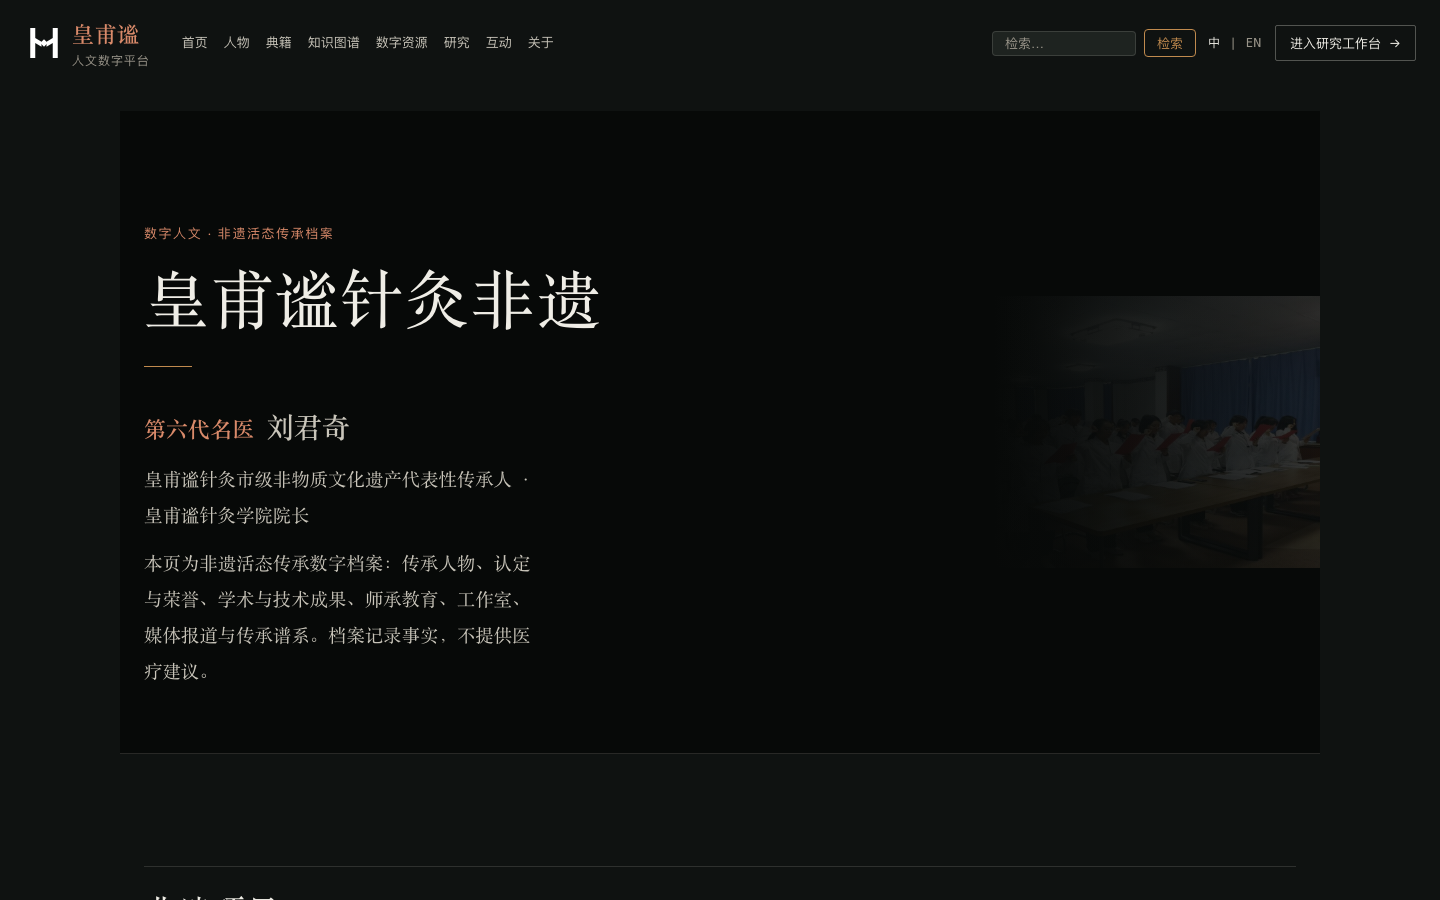
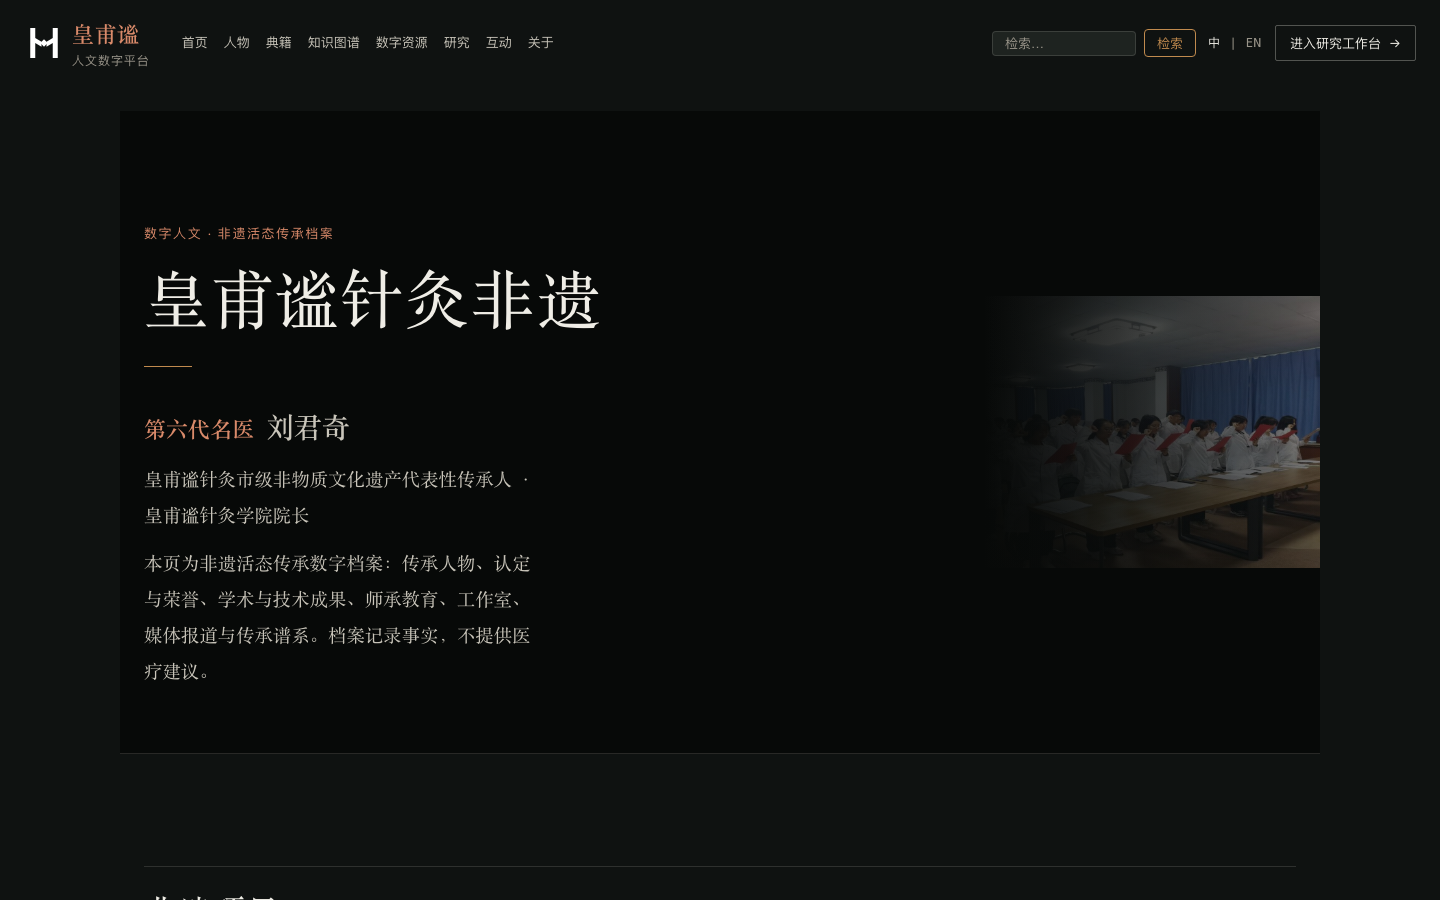
fix(portal): knowledge page read the API envelope, not the projection
/knowledge reported "共 0 条 · 知识实体尚未发布" while 30 terms were published.
The view called the raw GET and read `terms` off the response, but the public
endpoint wraps its payload in {success, data}, so the field was always
undefined and the honest-empty state rendered over real data.

Added fetchPublicCTerms alongside the other typed public fetchers, which
unwrap the envelope, and a spec for the page: it asserts the terms render
grouped by type, that the stated total is the real one, and that an
unreachable projection still degrades to the failure message rather than to
"nothing published". The old code fails that spec.

Two smaller corrections found while reviewing the pages:

  - the media library labelled every non-video asset "打开 PDF", including the
    .docx and .doc files that browsers only download. The label now follows the
    real format.
  - the edition-lineage diagram is a light scan on a dark page. It is now
    presented as a lit panel — framed, on a raised surface — rather than dimmed.
    Dimming it would have cost legibility, and ui08-jiayi.spec asserts the
    diagram is not filtered in dark mode. The 活态传承 hero image is a
    photograph rather than a scan, so its wash was lightened; at the scan
    setting it was invisible.

Verified: vue-tsc clean · eslint 0 errors · vitest 279/279 · playwright 89/89.

Changed region(s): [[0.75, 0.3111, 0.9375, 0.56], [0.875, 0.5911, 0.9375, 0.6533]]

diff --git a/apps/frontend/src/__tests__/knowledge_terms.spec.ts b/apps/frontend/src/__tests__/knowledge_terms.spec.ts
@@ -1,0 +1,64 @@
+/**
+ * /knowledge — the term list must come from the public projection, and must
+ * not silently render as empty when the API answer is the real envelope.
+ *
+ * This is the check that was missing: the page called the raw GET and read
+ * `terms` off the envelope instead of off `data`, so it reported "0 条 /
+ * 尚未发布" while 30 terms were published.
+ */
+import { describe, expect, it, vi, beforeEach, afterEach } from 'vitest'
+import { flushPromises, mount } from '@vue/test-utils'
+import KnowledgeGraphView from '../views/knowledge/KnowledgeGraphView.vue'
+
+const TERMS = [
+  { entity_id: 'K-ACUPOINT-三阴交', term_type: 'acupoint', term_name: '三阴交', publication_status: 'PUBLISHED' },
+  { entity_id: 'K-MERIDIAN-任脉', term_type: 'meridian', term_name: '任脉', publication_status: 'PUBLISHED' },
+  { entity_id: 'K-DISEASE-中风', term_type: 'disease_symptom', term_name: '中风', publication_status: 'PUBLISHED' },
+  { entity_id: 'K-TREATMENT-刺络', term_type: 'technique', term_name: '刺络', publication_status: 'PUBLISHED' },
+]
+
+const envelope = (data: unknown) => ({
+  ok: true,
+  status: 200,
+  json: async () => ({ success: true, timestamp: 't', message: 'ok', data }),
+})
+
+beforeEach(() => {
+  vi.stubGlobal(
+    'fetch',
+    vi.fn().mockResolvedValue(envelope({ terms: TERMS, total: TERMS.length })),
+  )
+})
+afterEach(() => vi.unstubAllGlobals())
+
+describe('knowledge graph page', () => {
+  it('renders the published terms grouped by type', async () => {
+    const wrapper = mount(KnowledgeGraphView)
+    await flushPromises()
+    const text = wrapper.text()
+    expect(text).toContain('三阴交')
+    expect(text).toContain('任脉')
+    expect(text).toContain('中风')
+    expect(text).toContain('刺络')
+    // 分组标题是中文名，不是 type 原文
+    expect(text).toContain('经穴')
+    expect(text).toContain('经脉')
+    expect(text).toContain('病症')
+    expect(text).toContain('治法')
+    expect(wrapper.text()).not.toContain('知识实体尚未发布')
+  })
+
+  it('states the real total, not zero', async () => {
+    const wrapper = mount(KnowledgeGraphView)
+    await flushPromises()
+    expect(wrapper.find('#kg-terms-title').exists()).toBe(true)
+    expect(wrapper.text()).toContain(`${TERMS.length}`)
+  })
+
+  it('degrades honestly when the projection is unavailable', async () => {
+    vi.stubGlobal('fetch', vi.fn().mockRejectedValue(new Error('offline')))
+    const wrapper = mount(KnowledgeGraphView)
+    await flushPromises()
+    expect(wrapper.text()).toContain('暂时无法读取知识实体')
+  })
+})

diff --git a/apps/frontend/src/styles/portal-column.css b/apps/frontend/src/styles/portal-column.css
@@ -151,8 +151,9 @@
 }
 
 .public-shell[data-surface='exhibition'] .heritage-hero {
+  /* 实拍本身偏暗，压得比扫描件轻，否则整张图看不见。 */
   background-image:
-    linear-gradient(to right, var(--wl-deep) 32%, rgba(7, 9, 8, 0.9) 60%, rgba(7, 9, 8, 0.74) 100%),
+    linear-gradient(to right, var(--wl-deep) 30%, rgba(7, 9, 8, 0.78) 58%, rgba(7, 9, 8, 0.34) 100%),
     url('/assets/heritage/heritage-baishi-ceremony.jpg');
 }
 
@@ -198,4 +199,22 @@
   background-image:
     linear-gradient(to right, var(--wl-deep) 32%, rgba(7, 9, 8, 0.9) 60%, rgba(7, 9, 8, 0.74) 100%),
     url('/assets/jiayi/edition-lineage.png');
+}
+
+/* ---- 浅底示意图在暗场里当「打光展板」处理 ----
+   版本脉络图是浅底扫描件，直接铺满整幅会在暗场里亮成一块白。
+   给它一个展板底与收边，并把图压到与暗场同一档。 */
+.public-shell[data-surface='exhibition'] .lineage {
+  padding: clamp(0.75rem, 1.6vw, 1.5rem);
+  background: var(--wl-light);
+  box-shadow: inset 0 0 0 1px var(--wl-rule);
+}
+/* 图**不压暗、不反色**：它是关系示意图，压暗就毁掉可读性（ui08-jiayi.spec
+   明确断言 dark 模式下 filter 为 none）。改为当作「暗场里的打光展板」——
+   白底面板落在深色墙上，本身就是展厅里的常见东西。 */
+.public-shell[data-surface='exhibition'] .lineage__img,
+.public-shell[data-surface='exhibition'] .lineage-dialog__img {
+  display: block;
+  width: 100%;
+  height: auto;
 }

diff --git a/apps/frontend/src/views/knowledge/KnowledgeGraphView.vue b/apps/frontend/src/views/knowledge/KnowledgeGraphView.vue
@@ -9,16 +9,9 @@
  * 画成图只会是一片离散的点。页面上如实说明，不画一张空图充数（契约 §5.6）。
  */
 import { computed, onMounted, ref } from 'vue'
-import { publicGet } from '../../services/api'
+import { fetchPublicCTerms, type PublicCTerm } from '../../services/api'
 
 defineOptions({ name: 'KnowledgeGraphView' })
-
-interface CTerm {
-  entity_id: string
-  term_type: string
-  term_name: string
-  publication_status: string
-}
 
 const TYPE_LABELS: Record<string, { zh: string; en: string; note: string }> = {
   acupoint: { zh: '经穴', en: 'ACUPOINT', note: '《针灸甲乙经》所载穴位名。' },
@@ -27,13 +20,13 @@ const TYPE_LABELS: Record<string, { zh: string; en: string; note: string }> = {
   technique: { zh: '治法', en: 'TECHNIQUE', note: '刺法、灸法等施治技术名。' },
 }
 
-const terms = ref<CTerm[]>([])
+const terms = ref<PublicCTerm[]>([])
 const loaded = ref(false)
 const failed = ref(false)
 
 onMounted(async () => {
   try {
-    const res = await publicGet<{ terms: CTerm[]; total: number }>('/api/v1/public/c-terms')
+    const res = await fetchPublicCTerms()
     terms.value = res.terms ?? []
   } catch {
     failed.value = true

diff --git a/apps/frontend/src/views/library/MediaLibraryView.vue b/apps/frontend/src/views/library/MediaLibraryView.vue
@@ -32,6 +32,18 @@ onMounted(async () => {
   }
 })
 
+/**
+ * 动作名按真实格式给：PDF 与图片浏览器内嵌打开，.doc/.docx 只会触发下载，
+ * 说「打开 PDF」是错的（此前所有非视频项都用了这个标签）。
+ */
+function openLabel(mime: string, name: string): string {
+  const lower = name.toLowerCase()
+  if (lower.endsWith('.doc') || lower.endsWith('.docx') || mime.includes('word')) return '下载'
+  if (mime === 'application/pdf') return '打开 PDF'
+  if (mime.startsWith('image/')) return '查看图片'
+  return '打开'
+}
+
 const categories: Array<MediaCategory | 'all'> = ['all', 'paper', 'classic', 'movie', 'person']
 
 const filtered = computed(() => {
@@ -117,7 +129,7 @@ function setCategory(cat: MediaCategory | 'all'): void {
             class="media-card__open"
             target="_blank"
             rel="noopener"
-            >打开 PDF</a
+            >{{ openLabel(asset.mime_type, asset.name) }}</a
           >
         </div>
       </li>

diff --git a/apps/frontend/src/services/api.ts b/apps/frontend/src/services/api.ts
@@ -70,6 +70,22 @@ function unwrap<T>(body: unknown): T {
   return body as T
 }
 
+/** Public knowledge term (c-domain entity). */
+export interface PublicCTerm {
+  entity_id: string
+  term_type: string
+  term_name: string
+  publication_status: string
+}
+
+/** Load the published knowledge terms (public projection only). */
+export async function fetchPublicCTerms(
+  signal?: AbortSignal,
+): Promise<{ terms: PublicCTerm[]; total: number }> {
+  const body = await publicGet<unknown>(`${PUBLIC_NAMESPACE}/c-terms`, signal)
+  return unwrap<{ terms: PublicCTerm[]; total: number }>(body)
+}
+
 /** Load the public home projection (published items only). */
 export async function fetchPublicHome(signal?: AbortSignal): Promise<HomeProjection> {
   const body = await publicGet<unknown>(`${PUBLIC_NAMESPACE}/home`, signal)
